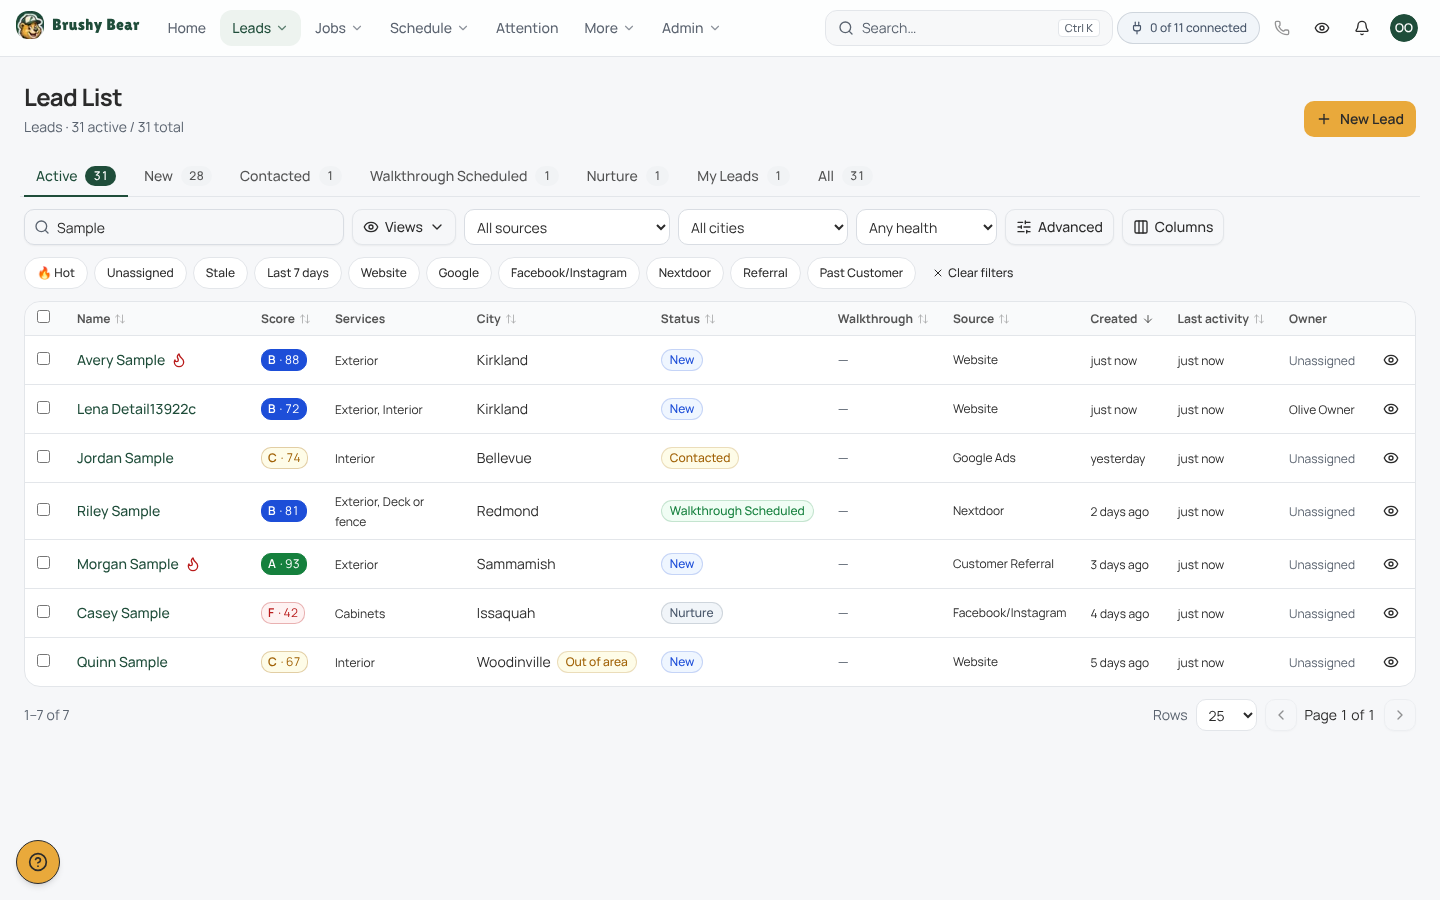
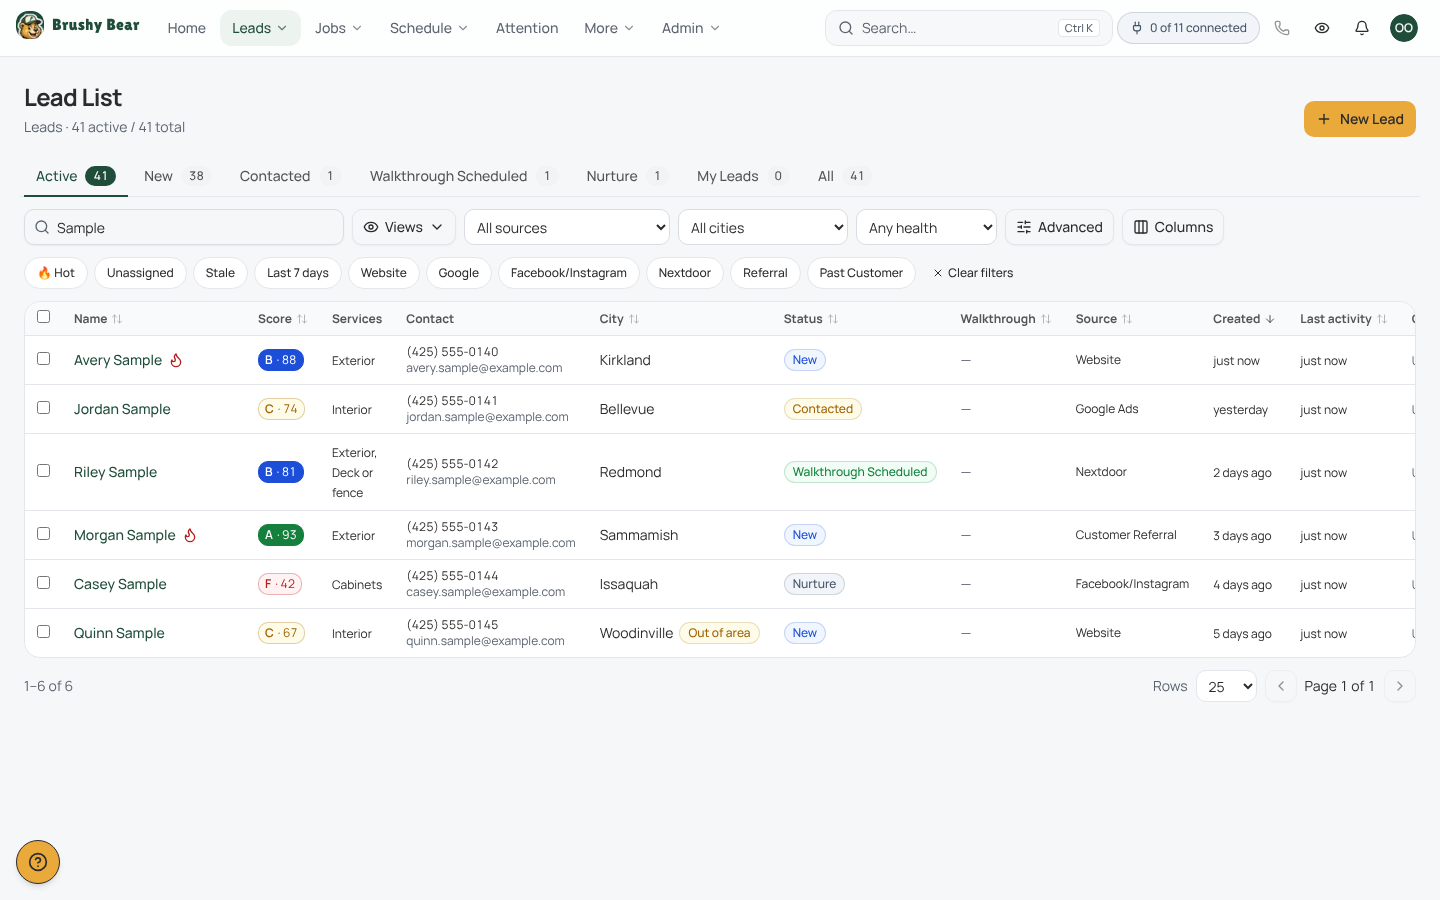
phase-2 docs: changelog, data model, README; screenshots from the production build
Claude-Session: https://claude.ai/code/session_01Wb9ArM5FggWsZVEdRpq7jb

diff --git a/docs/DATA_MODEL.md b/docs/DATA_MODEL.md
@@ -127,22 +127,96 @@ erDiagram
   }
 ```
 
-| Table                        | Purpose                                                                                                                  |
-| ---------------------------- | ------------------------------------------------------------------------------------------------------------------------ |
-| `permissions`                | Global catalog of `resource:action` permissions (85). Kept in sync with `lib/permissions/catalog.ts` by a unit test.     |
-| `permission_packs`           | Named bundles of permissions with a scope each. System packs are read-only; owners can add custom packs.                 |
-| `role_templates`             | Compose packs. One per user. Owner (`grants_all`) is locked. Flags: `requires_mfa`, `is_crew` (mobile crew view).        |
-| `user_permission_overrides`  | Per-user grants and revokes, with a required reason.                                                                     |
-| `profiles`                   | CRM users (1:1 with `auth.users`). Never deleted, only turned off. The last active owner can't be turned off.            |
-| `profile_compensation`       | Hourly cost for job costing. HR permission only.                                                                         |
-| `territories`                | Service-area cities and ZIP codes. A ZIP belongs to at most one territory. Soft delete.                                  |
-| `company_settings`           | One row per org: contact, licensing (placeholders), business hours, SLAs, season, deposit, estimate expiry, tax (unset). |
-| `picklists` / `_values`      | Admin-editable choices (lead sources and sub-sources, dispositions, work types, siding, sheens…). Keys are immutable.    |
-| `audit_log`                  | Append-only change history written by triggers.                                                                          |
-| `events`                     | Domain events written by triggers; processed by the worker (idempotent, retried).                                        |
-| `activity`                   | Human-readable timeline entries per record (used from Phase 2).                                                          |
-| `integration_connections`    | One row per integration domain; `connected` is refused by a trigger in this build.                                       |
-| `integration_outbox`         | Everything that would have been sent. Status `simulated`.                                                                |
-| `app.impersonation_sessions` | Active View-as sessions keyed by the owner's auth session. Not exposed through the API.                                  |
+| Table                        | Purpose                                                                                                                            |
+| ---------------------------- | ---------------------------------------------------------------------------------------------------------------------------------- |
+| `permissions`                | Global catalog of `resource:action` permissions (86 after Phase 2). Kept in sync with `lib/permissions/catalog.ts` by a unit test. |
+| `permission_packs`           | Named bundles of permissions with a scope each. System packs are read-only; owners can add custom packs.                           |
+| `role_templates`             | Compose packs. One per user. Owner (`grants_all`) is locked. Flags: `requires_mfa`, `is_crew` (mobile crew view).                  |
+| `user_permission_overrides`  | Per-user grants and revokes, with a required reason.                                                                               |
+| `profiles`                   | CRM users (1:1 with `auth.users`). Never deleted, only turned off. The last active owner can't be turned off.                      |
+| `profile_compensation`       | Hourly cost for job costing. HR permission only.                                                                                   |
+| `territories`                | Service-area cities and ZIP codes. A ZIP belongs to at most one territory. Soft delete.                                            |
+| `company_settings`           | One row per org: contact, licensing (placeholders), business hours, SLAs, season, deposit, estimate expiry, tax (unset).           |
+| `picklists` / `_values`      | Admin-editable choices (lead sources and sub-sources, dispositions, work types, siding, sheens…). Keys are immutable.              |
+| `audit_log`                  | Append-only change history written by triggers.                                                                                    |
+| `events`                     | Domain events written by triggers; processed by the worker (idempotent, retried).                                                  |
+| `activity`                   | Human-readable timeline entries per record (used from Phase 2).                                                                    |
+| `integration_connections`    | One row per integration domain; `connected` is refused by a trigger in this build.                                                 |
+| `integration_outbox`         | Everything that would have been sent. Status `simulated`.                                                                          |
+| `app.impersonation_sessions` | Active View-as sessions keyed by the owner's auth session. Not exposed through the API.                                            |
 
 Key functions (all in schema `app`, not exposed): `current_org_id()`, `effective_user_id()`, `user_perm_scope(user, perm)`, `has_perm(perm)`, `can_write(perm)`, `session_ok()`, `audit_row()`, `emit_change_event()`. Public RPCs: `my_access()`, `start_view_as()`, `stop_view_as()`, `integration_summary()`, `soft_delete_record()`, `restore_record()`, `list_deleted_records()`, `reorder_picklist_values()`.
+
+## Phase 2 — leads & customers
+
+```mermaid
+erDiagram
+  accounts ||--o{ contacts : "people"
+  accounts |o--o| contacts : "primary contact"
+  accounts ||--o{ properties : "homes"
+  properties ||--o| property_secrets : "gate / lockbox code (encrypted)"
+  territories ||--o{ accounts : ""
+  territories ||--o{ properties : "from ZIP"
+  territories ||--o{ leads : "from ZIP"
+  profiles ||--o{ leads : "owner / lead set by"
+  accounts |o--o{ leads : "linked on conversion"
+  leads ||--o{ lead_attachments : "photos"
+  leads ||--o{ intake_requests : "website submissions"
+  integration_outbox |o--o{ messages : "texts and emails"
+  profiles ||--o{ tasks : "assignee"
+  profiles ||--o{ notifications : ""
+  profiles ||--o{ saved_views : ""
+
+  leads {
+    uuid id PK
+    text status "new … converted / lost"
+    text lead_source "picklist key"
+    text lead_sub_source "picklist key"
+    text_arr services
+    smallint score "0-100, with factors"
+    text grade "A-F"
+    text temperature "hot / warm / cold"
+    uuid territory_id FK
+    bool out_of_area
+    int speed_to_lead_seconds "write-once"
+    text search_text "generated"
+  }
+  contacts {
+    uuid id PK
+    uuid account_id FK
+    bool sms_opt_in "with time + source"
+    bool email_opt_in "with time + source"
+    bool do_not_contact
+  }
+  messages {
+    uuid id PK
+    text channel "sms / email / call / voicemail / portal"
+    text subject_type "lead / account / contact"
+    uuid outbox_id FK "required for sms / email"
+    text status "simulated / logged / received"
+  }
+```
+
+Notes, comments, tasks, messages and activity attach to any record through `subject_type` + `subject_id`, and follow that record's visibility.
+
+| Table                | Purpose                                                                                                                                           |
+| -------------------- | ------------------------------------------------------------------------------------------------------------------------------------------------- |
+| `accounts`           | A household or business. Owner, territory, status, tags. Soft delete.                                                                             |
+| `contacts`           | People on an account, with consent: opt-in time and source for texts and email, opt-out, Do Not Contact. Soft delete.                             |
+| `properties`         | Homes on an account. Territory from the ZIP; `lead_safe_required` is generated from the year built (before 1978). Soft delete.                    |
+| `property_secrets`   | Gate / lockbox codes, encrypted in the app (AES-256-GCM, `FIELD_ENCRYPTION_KEY`). Readable only with `properties:view_access_codes`.              |
+| `leads`              | Website and manual leads. Picklist keys checked by trigger, territory from ZIP, score/grade/temperature with factors, speed to lead (write-once). |
+| `lead_attachments`   | Photos and files on a lead (private storage bucket `lead-attachments`). Can't be edited after upload.                                             |
+| `notes`              | Notes on any record; priority, pinned. Authors edit their own.                                                                                    |
+| `comments`           | Team comments with categories and @mentions; mentions create notifications (trigger).                                                             |
+| `tasks`              | To-dos with due time, assignee and priority, optionally on a record.                                                                              |
+| `messages`           | Append-only thread: texts, emails (must point at their outbox row), logged calls, portal messages. Text is kept out of the audit log.             |
+| `notifications`      | Per-user notifications written by triggers and trusted code; people can only mark their own as read.                                              |
+| `saved_views`        | Saved list views (filters, sort, columns), personal or shared.                                                                                    |
+| `lead_scoring_rules` | Editable points per scoring factor (Admin → Lead Scoring).                                                                                        |
+| `intake_requests`    | One row per website submission: idempotency key, body hash, outcome, the lead it made. Service role only.                                         |
+| `rate_limits`        | Fixed-window counters for the public intake endpoints. Service role only.                                                                         |
+
+New public RPCs: `search_records(query, scope, limit)` (universal search, runs as the caller), `lead_stats(now)` (Lead Dashboard), `lead_status_counts()` (list tabs), `consume_rate_limit()` (service role). `soft_delete_record()` now also requires edit rights on the record; `list_deleted_records()` / `restore_record()` cover leads, accounts, contacts and properties.
+
+Migrations: `20261026000600_leads_customers`, `…0700_intake_claims`, `…0800_scoped_soft_delete`, `…0900_messages_trusted_delete`, `…1000_lead_list_performance`, each with a rollback in `supabase/rollbacks/`.

diff --git a/CHANGELOG.md b/CHANGELOG.md
@@ -2,6 +2,36 @@
 
 All notable changes, by build phase. See `docs/PLAN.md` for what each phase covers.
 
+## Phase 2 — Leads & Customers
+
+### Added
+
+- **Website lead intake** (`POST /api/public/leads` + photo upload URLs): HMAC-signed with a 5-minute window, idempotency keys, rate limits, honeypot, strict validation. Maps services, timeline, home age and page path; scores the lead; repeat submissions within 180 days attach to the existing lead and notify its owner instead of creating a duplicate. Contract and copy-paste examples in `docs/WEBSITE_INTEGRATION.md`. A test submission becomes a lead in about 0.1 s.
+- **Lead Dashboard** (`/leads`): Total / New / Contacted / Walkthrough Scheduled, Needs Attention (stale 14+ days, unassigned, hot), status distribution, My Leads, Recent Leads, conversion funnel with rates and speed to lead, top sources, leads by city, lead aging. Every number comes from the server through the metrics registry; every chart has a "View data" table and drills into the Lead List.
+- **Lead List** (`/leads/list`) on a new shared list framework: tabs with counts, search (name, email, phone digits, address, source), quick chips, Source/City/Health selects, Advanced filter (match all/any), sortable columns, saved views (personal or shared), column picker, bulk assign and status change, preview drawer, paging. Filters live in the URL, so a filtered list is a shareable link.
+- **New Lead wizard** (`/leads/new`): three steps (contact, property, qualify) with per-step validation, a live duplicate check, completion meter, territory from ZIP, lead-safe note for pre-1978 homes, photos, and "Save & book walkthrough".
+- **Lead Detail** (`/leads/[id]`): header with grade and score, Call / SMS / Email composer (simulated through the outbox; nothing is sent), log a call, SMS segment counter, Details with score factors, Activity thread, Notes, Comments with @mentions, Tasks, Edit, Change status (lost reason / check-back date), Book walkthrough, Delete with reason.
+- **Lead scoring:** rule-based score 0–100 with grade A–F and Hot/Warm/Cold, stored with its reasons. **Admin → Lead Scoring** edits the points with a live example and can recalculate open leads.
+- **Accounts and Contacts** (`/accounts`, `/contacts`): lists, detail pages, New account (account + primary contact + first property), consent with time and source, Do Not Contact, properties with lead-safe badge, gate/lockbox codes encrypted in the app and revealed only on request (logged).
+- **Universal search** finds leads, accounts and contacts you're allowed to open, and remembers recently opened records in your browser. **Notifications bell** with mentions and repeat website submissions. Leads menu shows the newest leads.
+- Speed to lead in business hours (Pacific, from Company Settings), set once by the first call, text or email a person logs.
+- New permission `properties:view_access_codes`. "Team" scope means the same territory.
+- Deleted leads, accounts, contacts and properties can be restored in Admin → Deleted Records.
+
+### Changed
+
+- Deleting a record now also requires edit rights on that record (before, the delete permission alone was enough).
+- Trusted server code may delete messages (never edit them), for test cleanup and the demo-data purge. People still can't change or delete messages.
+- Faster lists at scale: page 1 of 50,000 leads in ~4 ms, tab counts 18 ms, dashboard 141 ms (`docs/PERFORMANCE.md`).
+- Two-step sign-in and View as no longer get stuck when a page refresh interrupts the redirect.
+
+### Tests
+
+- SQL/RLS: 282 assertions across 9 files (Phase 2 adds leads, accounts, contacts, notes, comments, tasks, messages, notifications, scoring rules, search, scoped delete; every role plus a second company).
+- Unit: 584 tests (scoring, normalization, dedupe, intake mapping and signatures, speed to lead, list filters, metrics registry, wizard, messaging, consent).
+- E2E + axe (desktop and mobile): intake API, Lead Dashboard, Lead List, New Lead, Lead Detail, Accounts & Contacts, Admin Lead Scoring, shell.
+- `pnpm bench:leads`: 50k-lead benchmark (local only).
+
 ## Phase 1 — Platform
 
 ### Added

diff --git a/README.md b/README.md
@@ -49,19 +49,20 @@ Useful pages while developing:
 
 ## Commands
 
-| Command                             | What it does                                                                     |
-| ----------------------------------- | -------------------------------------------------------------------------------- |
-| `pnpm dev`                          | Dev server                                                                       |
-| `pnpm build` / `pnpm start`         | Production build / serve it                                                      |
-| `pnpm lint`                         | ESLint                                                                           |
-| `pnpm format` / `pnpm format:check` | Prettier                                                                         |
-| `pnpm typecheck`                    | `tsc --noEmit`                                                                   |
-| `pnpm test`                         | Unit tests (Vitest)                                                              |
-| `pnpm test:e2e`                     | E2E + accessibility tests (Playwright, desktop + mobile)                         |
-| `pnpm screens`                      | Screenshots → `docs/screens/phase-N/` (`PHASE=N pnpm screens`)                   |
-| `pnpm db:test`                      | SQL / RLS tests (see below)                                                      |
-| `pnpm db:types`                     | Regenerate `lib/db/types.ts` from the local database                             |
-| `pnpm supabase <cmd>`               | Supabase CLI (pinned version), e.g. `start`, `stop`, `db reset`, `migration new` |
+| Command                             | What it does                                                                      |
+| ----------------------------------- | --------------------------------------------------------------------------------- |
+| `pnpm dev`                          | Dev server                                                                        |
+| `pnpm build` / `pnpm start`         | Production build / serve it                                                       |
+| `pnpm lint`                         | ESLint                                                                            |
+| `pnpm format` / `pnpm format:check` | Prettier                                                                          |
+| `pnpm typecheck`                    | `tsc --noEmit`                                                                    |
+| `pnpm test`                         | Unit tests (Vitest)                                                               |
+| `pnpm test:e2e`                     | E2E + accessibility tests (Playwright, desktop + mobile)                          |
+| `pnpm screens`                      | Screenshots → `docs/screens/phase-N/` (`PHASE=N pnpm screens`)                    |
+| `pnpm db:test`                      | SQL / RLS tests (see below)                                                       |
+| `pnpm db:types`                     | Regenerate `lib/db/types.ts` from the local database                              |
+| `pnpm bench:leads`                  | Lead List benchmark with 50k fake leads (local DB only; `--cleanup` removes them) |
+| `pnpm supabase <cmd>`               | Supabase CLI (pinned version), e.g. `start`, `stop`, `db reset`, `migration new`  |
 
 ### Database tests
 
